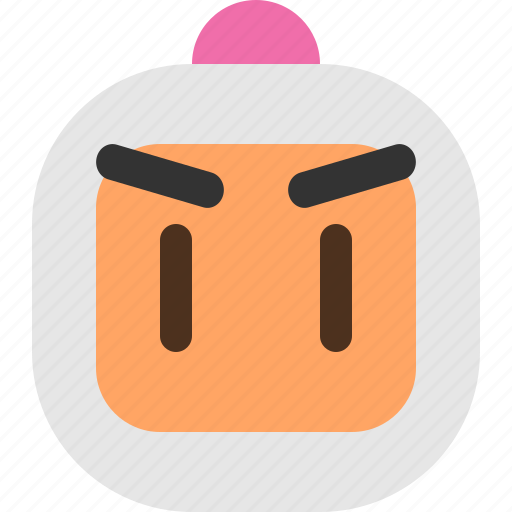
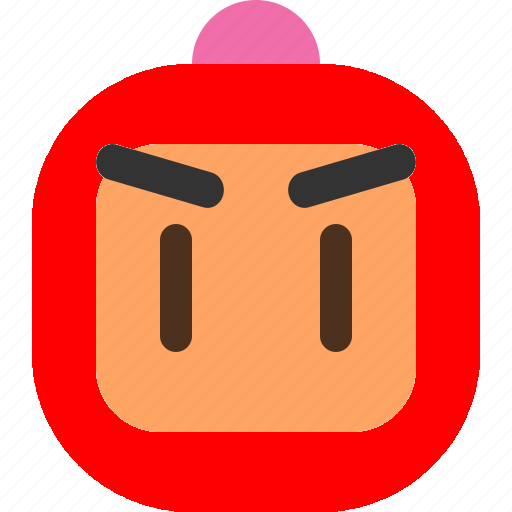
player colors & removed score & bomb image fix

diff --git a/index.html b/index.html
@@ -39,11 +39,10 @@
 
         <div id="canvas">
             <img id="player1" class="player" src="./assets/image/player.png" alt="player" width="40px" height="40px">
-            <img id="player2" class="player" src="./assets/image/player.png" alt="player" width="40px" height="40px">
+            <img id="player2" class="player" src="./assets/image/player2.png" alt="player" width="40px" height="40px">
+        <p id="timer"></p>
         </div>
     </div>
 
-    <p id="score"></p>
-    <p id="timer"></p>
 </body>
 </html>

diff --git a/assets/js/game.js b/assets/js/game.js
@@ -23,7 +23,6 @@ export default class Game {
     this.finishBlocks = [];
     this.currentLevel = 1;
     this.state = STATES[1]; // running
-    this.score = 0;
   }
 
   start() {
@@ -37,7 +36,6 @@ export default class Game {
 
   update() {
     if (this.state === "running") {
-      document.getElementById("score").innerHTML = "Score: " + this.score;
       this.walls.forEach((wall) => wall.update());
       this.player1.update();
       this.player2.update();

diff --git a/assets/js/level.js b/assets/js/level.js
@@ -42,7 +42,7 @@ export const level1 = [
     [1, 0, 0, 0, 0, 0, 0, 0, 0, 0, 0, 0, 0, 0, 1],
     [1, 0, 0, 2, 0, 0, 0, 0, 0, 0, 0, 0, 0, 0, 1],
     [1, 0, 0, 0, 0, 0, 2, 0, 0, 0, 0, 0, 0, 0, 1],
-    [1, 3, 0, 0, 0, 2, 2, 0, 0, 0, 0, 0, 0, 0, 1],
+    [1, 0, 0, 0, 0, 2, 2, 0, 0, 0, 0, 0, 0, 0, 1],
     [1, 0, 0, 0, 0, 0, 0, 0, 0, 0, 0, 0, 0, 0, 1],
     [1, 0, 0, 0, 0, 0, 0, 0, 0, 0, 0, 0, 0, 0, 1],
     [1, 0, 0, 0, 0, 0, 0, 0, 0, 0, 0, 0, 0, 0, 1],

diff --git a/assets/js/bomb.js b/assets/js/bomb.js
@@ -48,7 +48,6 @@ export default class Bomb {
       if (wall.isDestructible && detectCollision(position, wall)) {
         wall.element.remove();
         this.game.walls.splice(idx, 1);
-        this.game.score += 10;
       }
     });
 

diff --git a/assets/js/player.js b/assets/js/player.js
@@ -2,7 +2,7 @@
 
 import Bomb from "./bomb.js";
 
-import { detectCollision } from "./detectCollision.js";
+import { detectCollision } from "./detectcollision.js";
 
 
 export default class Player {
